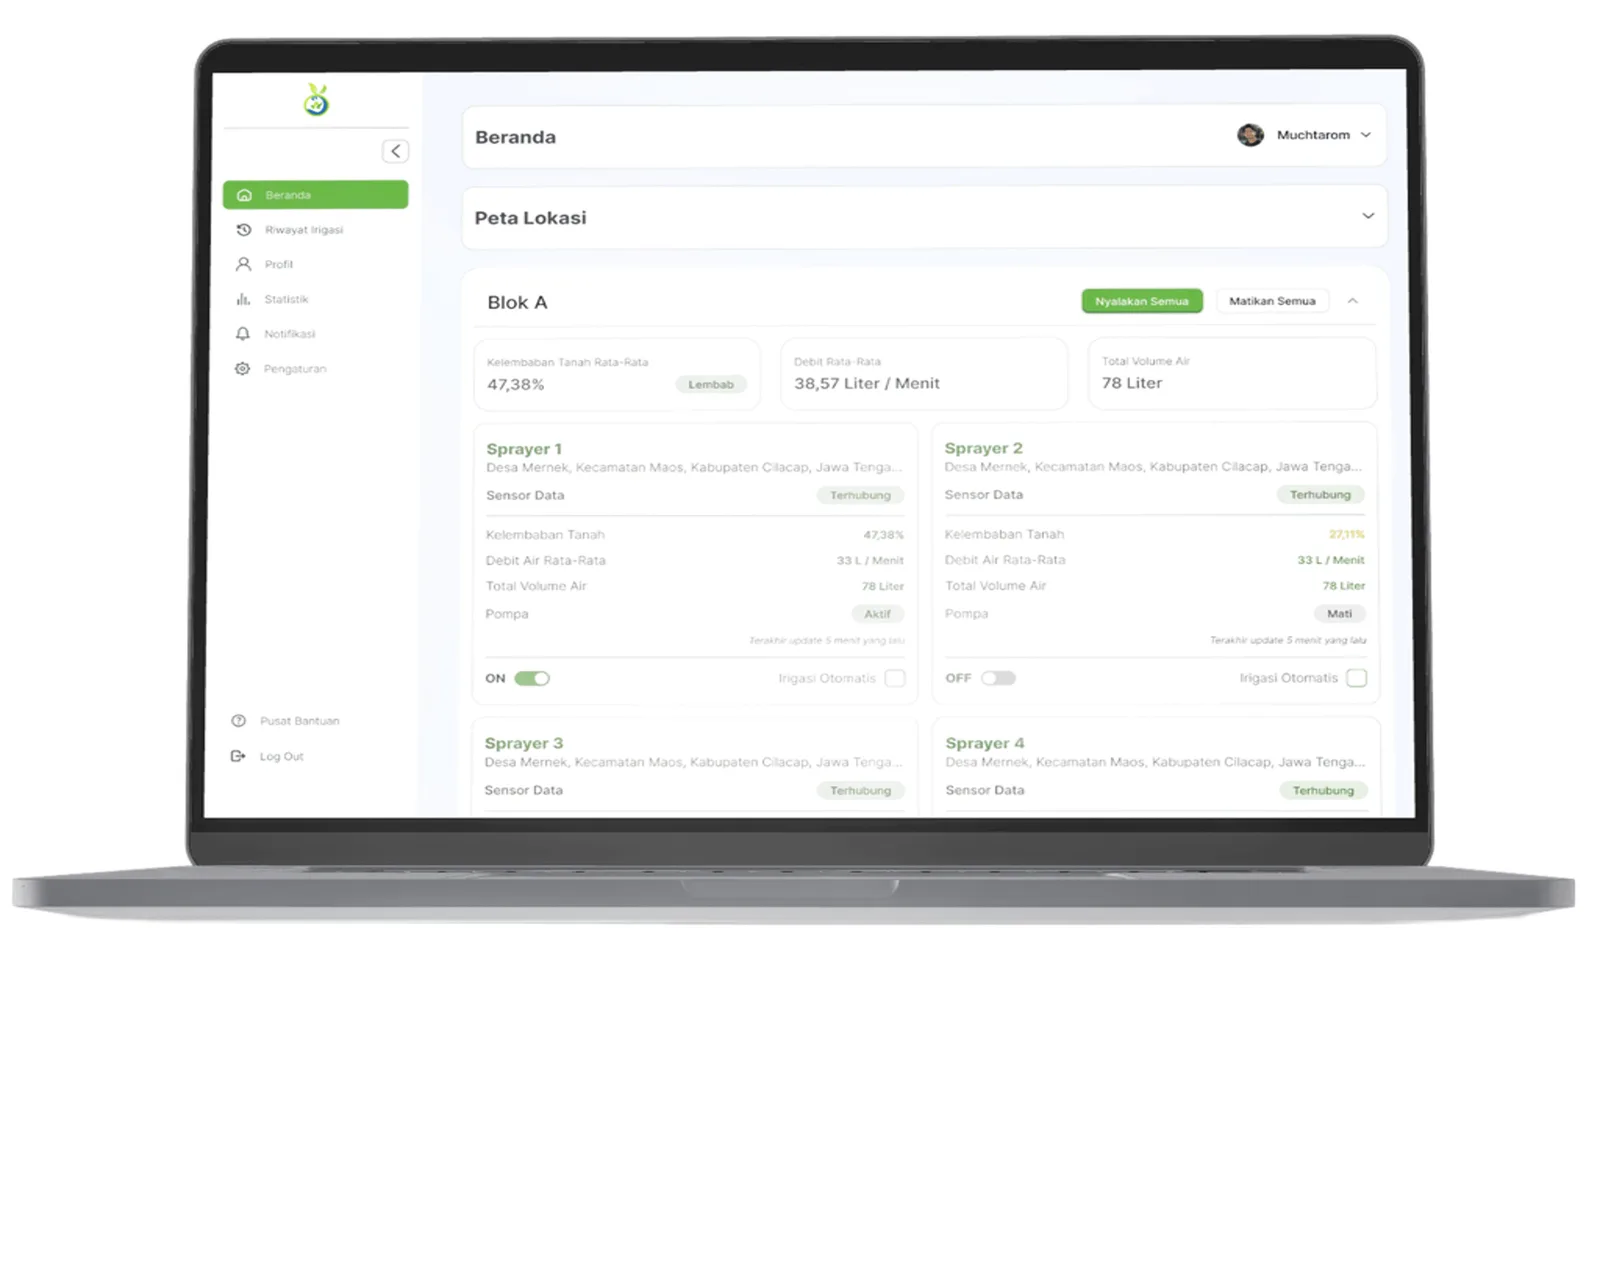
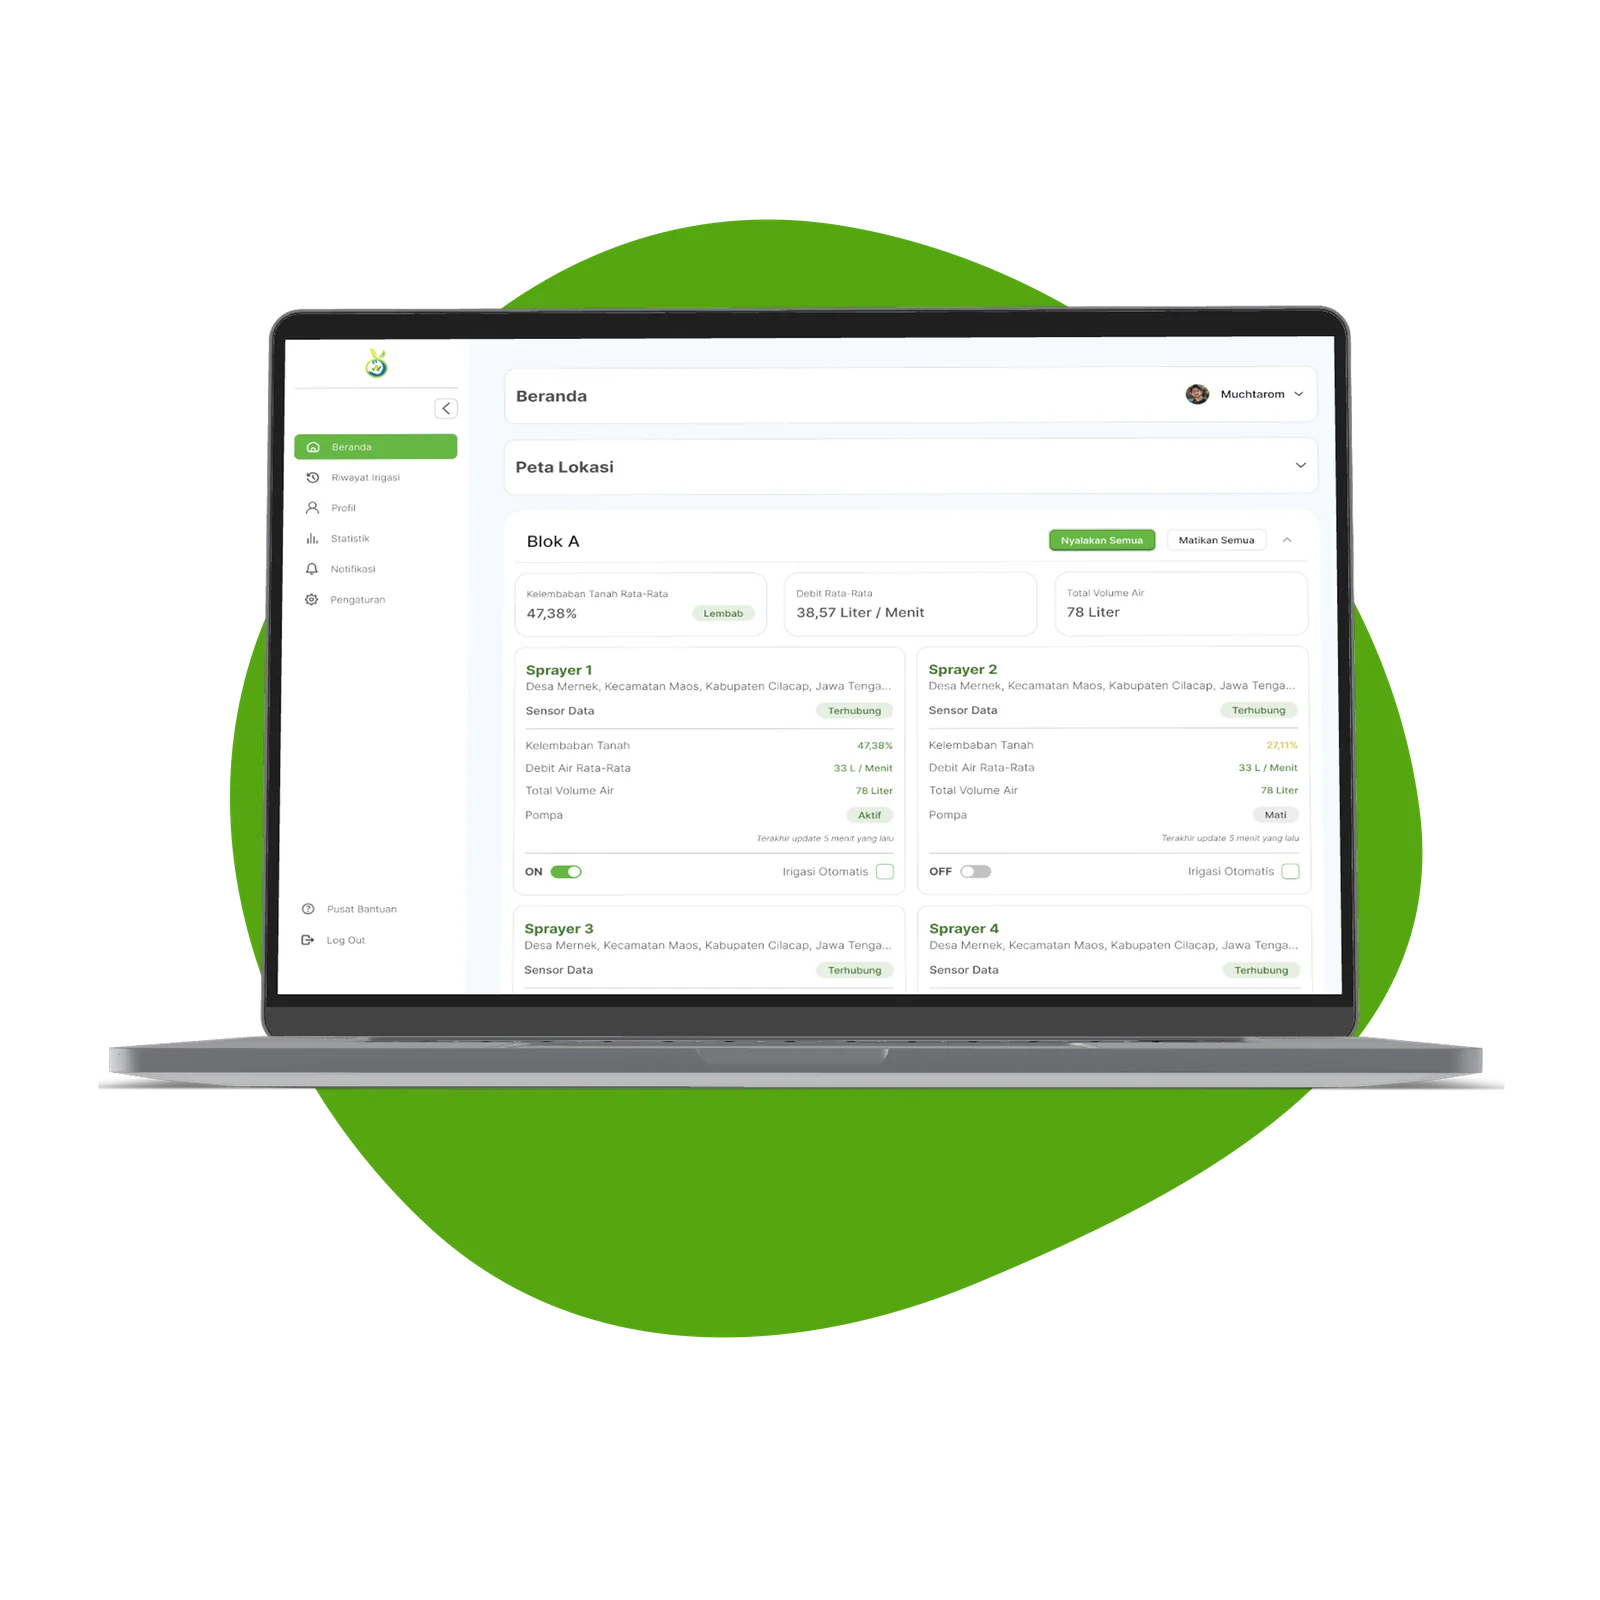
fix(landing): restore reference design and laptop mockup asset
Match the legacy landing page layout section by section:

- Rebuild laptop-mockup.webp from the transparent reference PNG (1600x1600)
  instead of the opaque JPG, restoring the green blob behind the laptop.
- Let landing containers span the full width again instead of capping
  them at 80rem.
- Restore hero, preview and implementation-map heights, the 2x2 stats grid
  with 60px figures, two-column feature sub-items, and the natural-size map
  background.
- Keep the hero title on one line below ~400px by scaling it with the
  viewport; it matches the reference at 390px and above.
- Stop the footer newsletter input collapsing to a thin bar on mobile
  (flex-1 in a column layout zeroed its height).

Claude-Session: https://claude.ai/code/session_01VTm9H1VAW5p7KEvumiUzdv

diff --git a/src/features/landing/LandingFooter.tsx b/src/features/landing/LandingFooter.tsx
@@ -84,7 +84,7 @@ export default function LandingFooter(props: LandingFooterProps) {
           </h2>
           <div class="lg:text-right">
             <p class="mb-4 text-sm font-semibold text-white sm:text-base">Dapatkan Informasi Terkini</p>
-            <form class="flex flex-col gap-2 sm:flex-row sm:items-center" noValidate onSubmit={submitNewsletter}>
+            <form class="flex flex-col gap-3 sm:flex-row sm:items-center" noValidate onSubmit={submitNewsletter}>
               <input
                 ref={inputRef}
                 type="email"
@@ -94,7 +94,7 @@ export default function LandingFooter(props: LandingFooterProps) {
                 autocomplete="email"
                 aria-label="Alamat email untuk berlangganan informasi"
                 disabled={newsletterState() === "loading" || newsletterState() === "success"}
-                class="h-12 w-full min-w-0 flex-1 rounded-full border border-[#3a5a3a] bg-[#2a3f2a] px-6 text-sm text-white placeholder:text-white/50 focus:border-[#67b744] focus:outline-none disabled:opacity-60"
+                class="h-12 w-full min-w-0 rounded-full sm:flex-1 border border-[#3a5a3a] bg-[#2a3f2a] px-6 text-sm text-white placeholder:text-white/50 focus:border-[#67b744] focus:outline-none disabled:opacity-60"
               />
               <button
                 type="submit"

diff --git a/src/features/landing/sections/HeroSection.tsx b/src/features/landing/sections/HeroSection.tsx
@@ -7,7 +7,11 @@ type HeroSectionProps = {
 
 export default function HeroSection(props: HeroSectionProps) {
   return (
-    <section id="beranda" class="relative min-h-[clamp(420px,80dvh,600px)] overflow-hidden" aria-label="Hero">
+    <section
+      id="beranda"
+      class="relative min-h-[600px] overflow-hidden md:min-h-[700px] lg:min-h-[800px]"
+      aria-label="Hero"
+    >
       <img
         src="/landing/hero-background.webp"
         alt="Lahan pertanian irigasi pintar ADOSISTERING"
@@ -22,7 +26,7 @@ export default function HeroSection(props: HeroSectionProps) {
       <div class="absolute inset-0 z-10 flex items-center">
         <div class="container mx-auto max-w-screen-xl px-4 sm:px-6 lg:px-12 xl:px-16">
           <div class="max-w-2xl">
-            <h1 class="break-words hyphens-auto text-left text-[clamp(1.75rem,8vw,3.75rem)] font-extrabold uppercase leading-tight tracking-wide text-white sm:tracking-widest">
+            <h1 class="break-words text-left text-[clamp(1.75rem,9vw,2.25rem)] font-extrabold uppercase leading-tight tracking-widest text-white sm:text-5xl md:text-6xl">
               {props.config.projectName}
             </h1>
             <p class="mt-5 max-w-xl text-left text-lg leading-relaxed text-white/80 sm:text-2xl md:text-3xl">

diff --git a/src/features/landing/sections/UseCasesSection.tsx b/src/features/landing/sections/UseCasesSection.tsx
@@ -24,12 +24,12 @@ export default function UseCasesSection() {
           <br />
           &amp; Uji Lapangan
         </h2>
-        <div class="relative flex min-h-[clamp(480px,80vw,800px)] items-center pb-20 pt-4 md:pb-28 lg:pb-36">
+        <div class="relative flex min-h-[600px] items-center pb-20 pt-4 md:min-h-[700px] md:pb-28 lg:min-h-[800px] lg:pb-36">
           <div class="pointer-events-none absolute inset-0 flex items-center justify-center" aria-hidden="true">
             <img
               src="/landing/map-background.webp"
               alt=""
-              class="absolute inset-0 h-full w-full object-cover"
+              class="object-cover"
               loading="lazy"
               decoding="async"
               fetchpriority="low"

diff --git a/src/features/landing/sections/StatsSection.tsx b/src/features/landing/sections/StatsSection.tsx
@@ -7,10 +7,10 @@ export default function StatsSection() {
       aria-label="Statistik pencapaian ADOSISTERING"
     >
       <div class="relative container mx-auto max-w-screen-xl px-4 sm:px-6 lg:px-8">
-        <div class="grid grid-cols-1 gap-8 min-[420px]:grid-cols-2 lg:grid-cols-4 lg:gap-12">
+        <div class="grid grid-cols-2 gap-8 lg:grid-cols-4 lg:gap-12">
           {STATS.map((stat) => (
             <div class="text-center">
-              <div class="mb-4 text-[clamp(1.875rem,9vw,3rem)] font-extrabold text-white">{stat.value}</div>
+              <div class="mb-4 text-5xl font-extrabold text-white sm:text-6xl">{stat.value}</div>
               <div class="text-lg text-white">{stat.label}</div>
             </div>
           ))}

diff --git a/src/features/landing/sections/PreviewSection.tsx b/src/features/landing/sections/PreviewSection.tsx
@@ -25,7 +25,7 @@ export default function PreviewSection() {
             </a>
           </div>
         </div>
-        <div class="relative mt-14 flex min-h-[clamp(320px,50vw,600px)] items-end justify-center md:mt-16">
+        <div class="relative mt-14 flex min-h-[460px] items-end justify-center sm:min-h-[520px] md:mt-16 md:min-h-[600px]">
           <img
             src="/landing/laptop-mockup.webp"
             alt="Dashboard platform ADOSISTERING ditampilkan di layar laptop"
@@ -34,7 +34,7 @@ export default function PreviewSection() {
             decoding="async"
             fetchpriority="low"
             width={1600}
-            height={1280}
+            height={1600}
           />
         </div>
       </div>

diff --git a/src/features/landing/sections/FeaturesGrid.tsx b/src/features/landing/sections/FeaturesGrid.tsx
@@ -40,7 +40,7 @@ export default function FeaturesGrid() {
                     {feature.title}
                   </h3>
                   <p class="mb-10 text-base leading-relaxed text-slate-500 sm:text-lg">{feature.desc}</p>
-                  <div class="grid grid-cols-1 gap-6 sm:grid-cols-2 sm:gap-8">
+                  <div class="grid grid-cols-2 gap-6 sm:gap-8">
                     {feature.subs.map((sub) => (
                       <div>
                         <div class="mb-4 flex h-12 w-12 items-center justify-center rounded-xl bg-emerald-100 text-emerald-600">

diff --git a/src/app.css b/src/app.css
@@ -277,7 +277,7 @@ html.landing-scrollbar::-webkit-scrollbar-thumb:hover {
 }
 
 .landing-page .container {
-  max-width: min(100%, 80rem);
+  max-width: 100%;
 }
 
 /* ─── Pointer cursor on interactive elements ─────────── */
